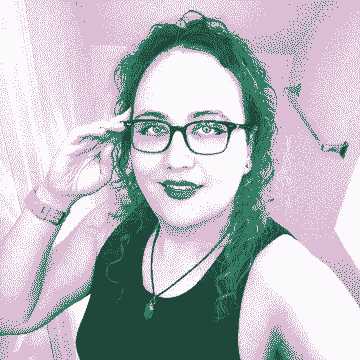
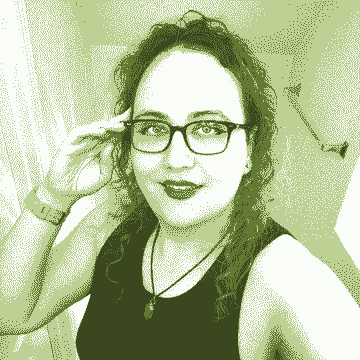
looking neato

diff --git a/src/static/style.css b/src/static/style.css
@@ -1,16 +1,43 @@
 /* --- Fonts --- */
 
 /* Fonts from Google Fonts using google-webfonts-helper
- * https://google-webfonts-helper.herokuapp.com/fonts/nunito?subsets=latin
+ * https://gwfh.mranftl.com/fonts/nunito-sans?subsets=latin
  */
+
+/* nunito-sans-regular - latin */
+@font-face {
+  font-display: swap;
+  font-family: "Nunito Sans";
+  font-style: normal;
+  font-weight: 400;
+  src: url("/static/fonts/nunito-sans-v15-latin-regular.woff2") format("woff2");
+}
+
+/* nunito-sans-italic - latin */
+@font-face {
+  font-display: swap;
+  font-family: "Nunito Sans";
+  font-style: italic;
+  font-weight: 400;
+  src: url("/static/fonts/nunito-sans-v15-latin-italic.woff2") format("woff2");
+}
+
+/* nunito-sans-700 - latin */
+@font-face {
+  font-display: swap;
+  font-family: "Nunito Sans";
+  font-style: normal;
+  font-weight: 700;
+  src: url("/static/fonts/nunito-sans-v15-latin-700.woff2") format("woff2");
+}
 
 /* --- Other CSS --- */
 
 :root {
-  --font-body: Avenir, Montserrat, Corbel, "URW Gothic", source-sans-pro,
-    sans-serif;
-  --font-heading: Bahnschrift, "DIN Alternate", "Franklin Gothic Medium",
-    "Nimbus Sans Narrow", sans-serif-condensed, sans-serif;
+  --font-body: "Nunito Sans", system-ui, sans-serif;
+  --font-heading: var(--font-body);
+  /* --font-heading: Bahnschrift, "DIN Alternate", "Franklin Gothic Medium",
+    "Nimbus Sans Narrow", sans-serif-condensed, sans-serif; */
   --font-mono: ui-monospace, "JetBrains Mono", "Cascadia Code", SFMono-Regular,
     Menlo, Monaco, Consolas, "Liberation Mono", "Courier New", monospace;
   --content-width: 800px;
@@ -21,27 +48,24 @@
 .bit-auto {
   --hue-main: 250;
   --hue-alt: 80;
-  --hue-yellow: 60;
-  --hue-orange: 30;
+  --hue-syntax-keyword: 160;
+  --hue-syntax-other: 40;
 
-  --color-nav-bg: hsl(var(--hue-alt) 100% 40%);
-  --color-nav-fg: hsl(var(--hue-alt) 100% 10%);
-  --color-nav-accent: hsl(var(--hue-alt) 100% 10%);
-  --color-nav-shadow: hsl(var(--hue-main) 100% 10%);
-
-  --color-fg: hsl(var(--hue-main) 70% 85%);
+  --color-heading: hsl(var(--hue-main) 100% 90%);
+  --color-fg: hsl(var(--hue-main) 85% 85%);
   --color-bg: hsl(var(--hue-main) 35% 15%);
-  --color-link: hsl(var(--hue-alt) 100% 60%);
+  --color-link: hsl(var(--hue-alt) 80% 60%);
   --color-border: hsl(var(--hue-main) 35% 30%);
   --color-syntax-bg: hsl(var(--hue-main) 50% 10%);
   --color-code-bg: hsl(var(--hue-main) 50% 10%);
   --color-code-fg: var(--color-fg);
-  --color-avatar-bg: hsl(var(--hue-main) 40% 86%);
 
   --bit-color-fg: var(--color-fg);
   --bit-color-bg: var(--color-bg);
   --bit-color-shadow: var(--color-border);
   --bit-color-accent: var(--color-link);
+
+  --color-avatar-bg: hsl(var(--hue-main) 35% 15%);
   --bit-border-radius: 0px;
 }
 
@@ -113,13 +137,6 @@ header {
   padding: 1rem;
 }
 
-header.bit-root {
-  --bit-color-bg: var(--color-nav-bg);
-  --bit-color-fg: var(--color-nav-fg);
-  --bit-color-accent: var(--color-nav-accent);
-  --bit-color-shadow: var(--color-nav-shadow);
-}
-
 footer > *,
 header > * {
   margin: 0 auto;
@@ -133,6 +150,7 @@ h2,
 h3 {
   margin: 2rem 0 1rem 0;
   font-family: var(--font-heading);
+  color: var(--color-heading);
 }
 
 h2 .markdownIt-Anchor::before {
@@ -172,7 +190,7 @@ details[open] > summary {
 }
 
 .bizarro {
-  filter: hue-rotate(150deg);
+  filter: hue-rotate(260deg);
 }
 
 .width-max-content {
@@ -192,6 +210,7 @@ details[open] > summary {
 }
 
 .logo {
+  color: var(--color-heading);
   margin-right: 1rem;
   text-decoration-line: none;
   letter-spacing: 0.05em;
@@ -238,7 +257,7 @@ p {
 
 ul {
   padding-left: 1.25rem;
-  list-style-type: disc;
+  list-style-type: square;
 }
 
 ol {
@@ -360,6 +379,9 @@ figure figcaption {
 
 .avatar {
   --radius: 9999px;
+  padding: 0.5rem;
+  border: 1px solid var(--bit-color-shadow);
+  border-bottom-width: 2px;
   display: flex;
   float: right;
   margin: 2rem;
@@ -426,8 +448,8 @@ figure figcaption {
 .bit-auto pre {
   --c1: hsl(var(--hue-main) 5% 62%);
   --c2: hsl(var(--hue-alt) 80% 80%);
-  --c3: hsl(var(--hue-orange) 80% 75%);
-  --c4: hsl(var(--hue-yellow) 60% 60%);
+  --c3: hsl(var(--hue-syntax-other) 80% 75%);
+  --c4: hsl(var(--hue-syntax-keyword) 60% 60%);
 
   --comment: var(--c1);
   --punctuation: var(--c1);

diff --git a/src/index.html b/src/index.html
@@ -6,7 +6,7 @@ layout: "layout-base"
 <main>
   <script type="module" src="/static/bizarro.js"></script>
 
-  <div class="avatar bit-box">
+  <div class="avatar">
     <img
       alt=""
       src="/static/photo-360.png"
